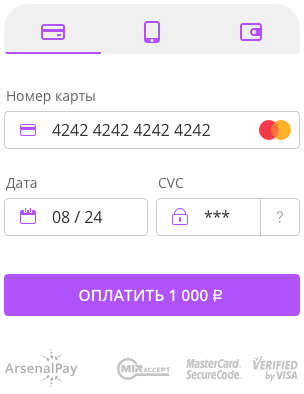
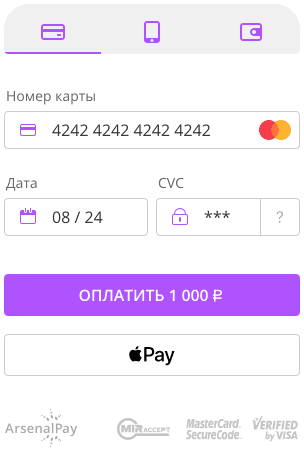
developers: add apple pay info

diff --git a/src/pages/developers.html b/src/pages/developers.html
@@ -40,7 +40,7 @@ footerLink: "https://arsenalpay.ru/dashboard/registration-type"
     <a href="https://arsenalpay.ru/dashboard/registration-type" class="page-section__btn">Подключить</a>
     <div class="widget-box widget-box--dev">
       <div class="widget-box__widget">
-        {{{ img name="widget" breakpoints='{"sm": true}'}}}
+        {{{ img className="developers-page" name="widget" breakpoints='{"sm": true}'}}}
       </div>
       <div class="widget-box__content">
         {{{ info-box title="Виджет оплаты"  text='Встраивается в&nbsp;любое место на&nbsp;сайте. <br class="br br--show-xs">Адаптирован под любые устройства.<br class="br br--show-xs">
@@ -53,7 +53,7 @@ footerLink: "https://arsenalpay.ru/dashboard/registration-type"
 <section class="page-section page-section--widget-details">
   <div class="page-section__container">
     <div class="widget-details">
-      {{{ info-box title="Все способы оплаты в&nbsp;одном виджете"  text='Банковские карты:<br class="br br--show-xs br--hide-md"> Банковские карты: Visa, MasterCard, Мир, Apple Pay.
+      {{{ info-box title="Все способы оплаты в&nbsp;одном виджете"  text='Банковские карты:<br class="br br--show-xs br--hide-md"> Visa, MasterCard, Мир, Apple Pay.
       <br class="br br--show-xs">Оплата с баланса мобильного телефона.<br class="br br--show-xs">Электронные кошельки.' icon='{"name": "number-1", "color": "purple"}' mods="align-left-lg" titleMods="lh-35-md" textMods="lh-md-26" }}}
       <div class="widget-details__item widget-details__item--tab">
         {{{ img name="widget-tabs" breakpoints='{"sm": true}'}}}

diff --git a/src/assets/scss/components/_widget-box.scss b/src/assets/scss/components/_widget-box.scss
@@ -300,6 +300,14 @@
         order: 2;
       }
     }
+
+    .widget-box--dev & {
+      height: 498px;
+
+      @include media-breakpoint-up(sm) {
+        height: 502px;
+      }
+    }
   }
 
   &__widget img {
@@ -316,11 +324,7 @@
     .widget-box--dev & {
 
       @include media-breakpoint-up(lg) {
-        padding-top: 46px;
-      }
-
-      @include media-breakpoint-up(xl) {
-        padding-top: 56px;
+        padding-top: 82px;
       }
     }
 
@@ -436,4 +440,16 @@ picture.img.widget-box--no-site-img {
   @include media-breakpoint-up(sm) {
     height: 928px;
   }
+}
+
+picture.img.widget-box--instagram-img {
+  height: 1234px;
+
+  @include media-breakpoint-up(sm) {
+    height: 996px;
+  }
+}
+
+picture.img.developers-page {
+  height: 458px;
 }
